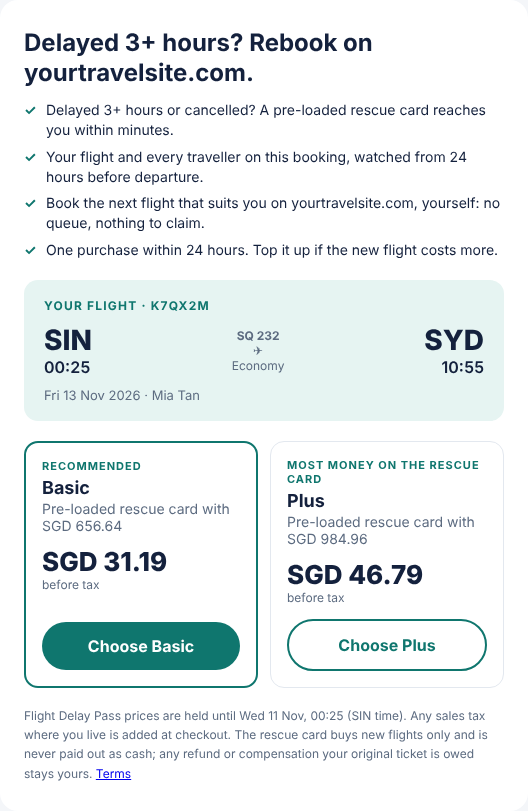
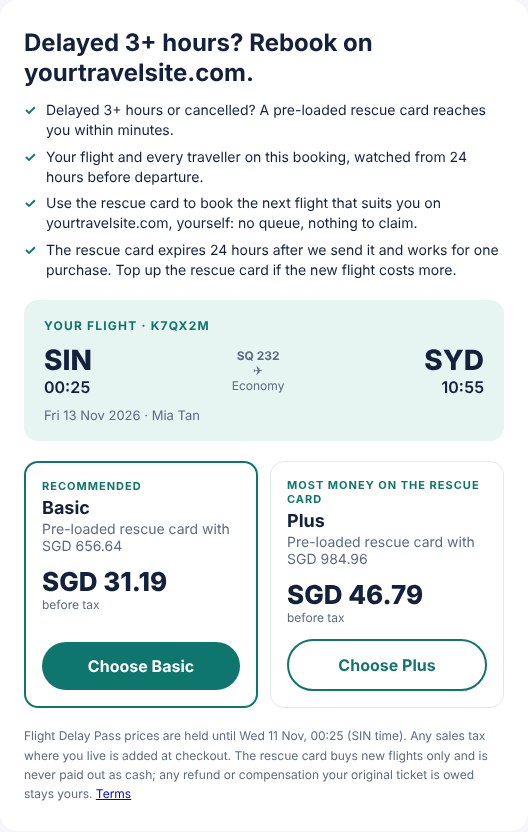
OTA page: widget screenshot names the rescue card and its 24 hours
Claude-Session: https://claude.ai/code/session_018Yozk79M8axVzfWLgUCQLn

Changed region(s): [[0.0303, 0.0308, 0.9697, 0.9556], [0.4848, 0.0308, 0.697, 0.0617]]

diff --git a/travel-sites.html b/travel-sites.html
@@ -112,7 +112,7 @@
       <div class="tile"><span class="time" style="background:#b91c1c">TRAVEL DAY</span><h3>4. Delay hits</h3><p class="muted">The flight is 3+ hours late or cancelled. Within minutes the customer gets a pre-loaded rescue card, funded by the Underwriter, to book a new flight on your site.</p></div>
     </div>
     <div class="grid2 screens">
-      <figure class="shot"><img src="images/ota-plans.png?v=3" alt="The plans widget: rebook on your site, the key points, and Basic and Plus with their fees and rescue card amounts" loading="lazy"><figcaption><b>The plans</b> on your confirmation page, in your colours</figcaption></figure>
+      <figure class="shot"><img src="images/ota-plans.png?v=4" alt="The plans widget: rebook on your site, the key points, and Basic and Plus with their fees and rescue card amounts" loading="lazy"><figcaption><b>The plans</b> on your confirmation page, in your colours</figcaption></figure>
       <figure class="shot"><img src="images/ota-checkout-filled.png" alt="Checkout page with the customer's name, date of birth, address and WhatsApp number already filled in" loading="lazy"><figcaption><b>The checkout</b>, already filled in with what you know</figcaption></figure>
     </div>
   </div>
